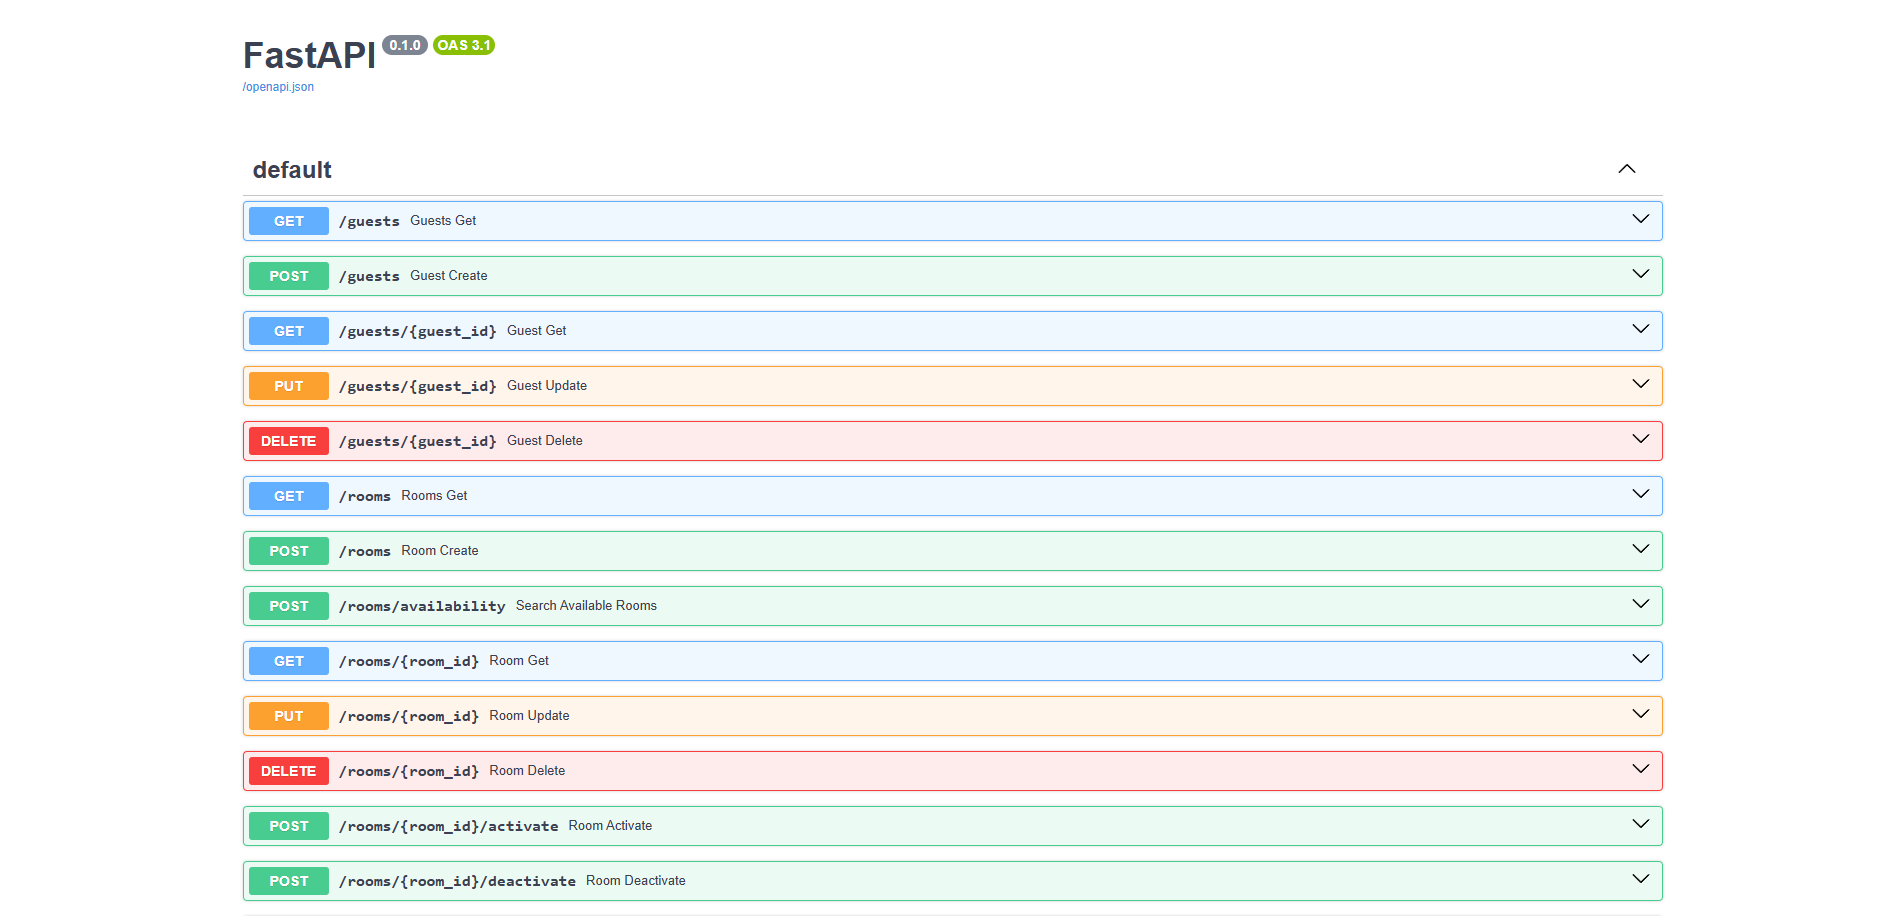
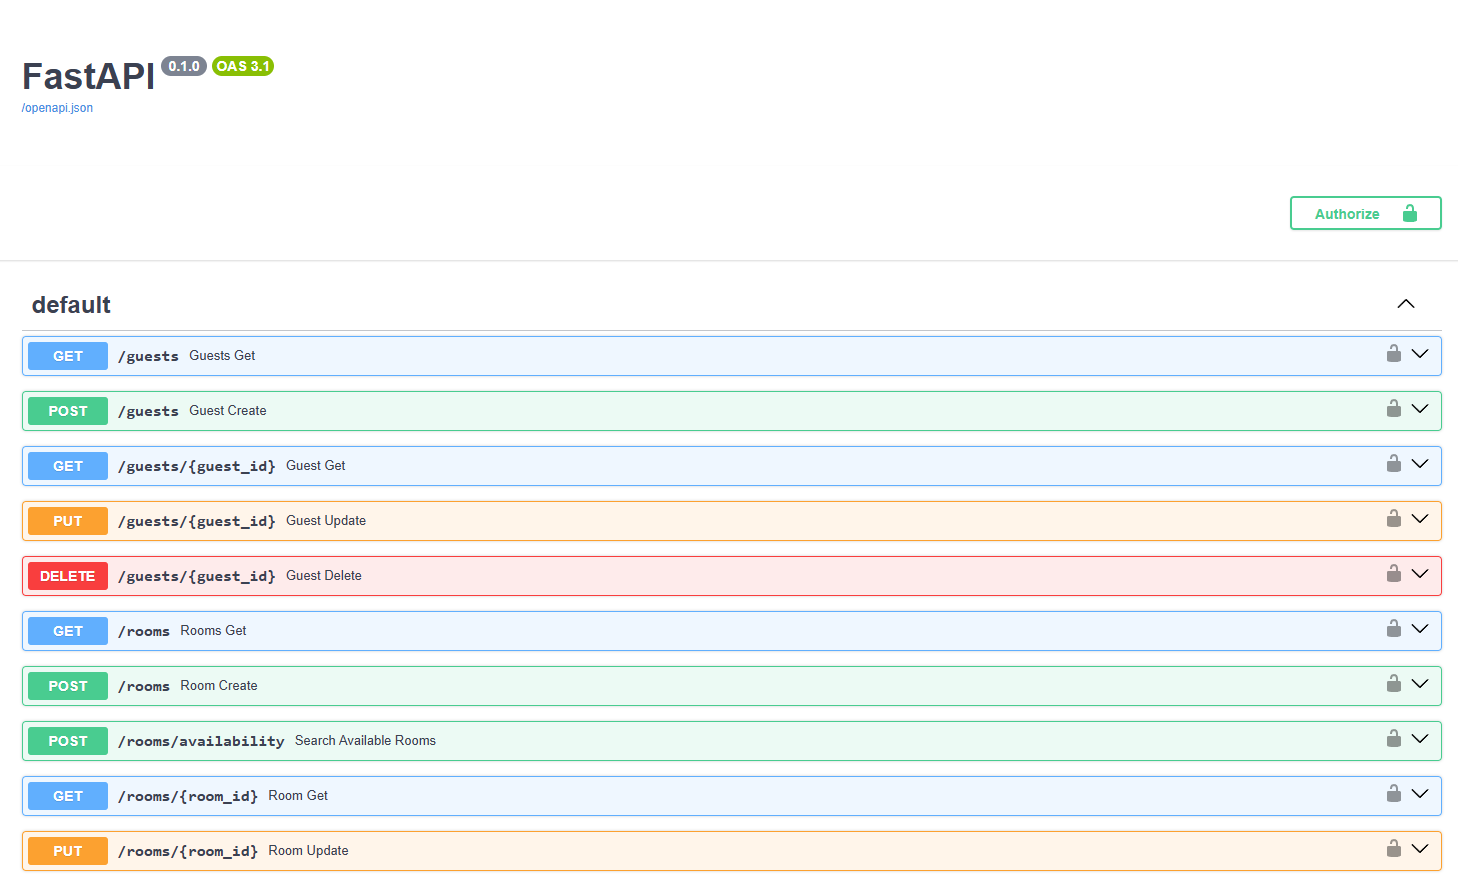
docs: update README with JWT authentication, authorization, RBAC and user management

diff --git a/README.md b/README.md
@@ -2,129 +2,172 @@
 
 A hotel reservation management API built with FastAPI, PostgreSQL, and SQLAlchemy ORM, following a layered architecture with separate API, service, and data access layers.
 
-This project started as a command-line application using SQLite and was later refactored into a REST API using FastAPI and PostgreSQL as part of my backend development learning journey.
+This project started as a command-line application using SQLite and was later refactored into a secure REST API using FastAPI, PostgreSQL, JWT authentication, and role-based access control as part of my backend development learning journey.
 
 ## Features
 
+### Authentication & Authorization
+
+* User registration
+* User login
+* JWT access token generation
+* OAuth2 password flow support
+* Protected API endpoints
+* Role-based access control (RBAC)
+* Authorization policies for Guests, Staff, and Administrators
+* Password hashing and verification
+
+### User Management
+
+* View all users (Admin)
+* Retrieve user details (Admin)
+* Update user information (Admin)
+* Delete users (Admin)
+
 ### Guest Management
 
-- Create guests
-- View all guests
-- Retrieve guest details
-- Update guest information
-- Delete guests
+* Create guests
+* View all guests
+* Retrieve guest details
+* Update guest information
+* Delete guests
 
 ### Room Management
 
-- Create rooms
-- View all rooms
-- Retrieve room details
-- Update room information
-- Delete rooms
-- Activate/deactivate rooms
-- Search room availability for a date range
+* Create rooms
+* View all rooms
+* Retrieve room details
+* Update room information
+* Delete rooms
+* Activate/deactivate rooms
+* Search room availability for a date range
 
 ### Reservation Management
 
-- Create reservations
-- View all reservations
-- Retrieve reservation details
-- Update reservations
-- Cancel reservations
-- Check guests in
-- Check guests out
-- Prevent overlapping reservations for the same room
+* Create reservations
+* View all reservations
+* Retrieve reservation details
+* Update reservations
+* Cancel reservations
+* Check guests in
+* Check guests out
+* Prevent overlapping reservations for the same room
 
 ### Reporting & Analytics
 
-- Revenue reports for custom date ranges
-- Monthly revenue reports
-- Yearly revenue reports
-- Current occupancy reports
-- Monthly occupancy reports
+* Revenue reports for custom date ranges
+* Monthly revenue reports
+* Yearly revenue reports
+* Current occupancy reports
+* Monthly occupancy reports
 
 ### Testing
 
-- Comprehensive FastAPI endpoint test suite
-- Positive and negative test cases
-- Request validation testing
-- Error handling verification
-- Isolated test database setup using pytest fixtures
+* Comprehensive FastAPI endpoint test suite
+* Positive and negative test cases
+* Request validation testing
+* Authentication and authorization testing
+* Error handling verification
+* Isolated test database setup using pytest fixtures
+
+## Role-Based Access Control
+
+The API uses three authorization levels:
+
+| Role  | Permissions                                                                                                           |
+| ----- | --------------------------------------------------------------------------------------------------------------------- |
+| Guest | Register, login, create reservations, search room availability, manage guest records                                  |
+| Staff | All Guest permissions plus view guests, rooms, reservations, occupancy reports, perform check-in/check-out operations |
+| Admin | Full system access including room management, reservation updates, revenue reports, and user management               |
 
 ## API Endpoints
 
+### Authentication
+
+| Method | Endpoint         | Description                      |
+| ------ | ---------------- | -------------------------------- |
+| POST   | `/auth/register` | Register a new user              |
+| POST   | `/auth/login`    | Login and receive JWT token      |
+| POST   | `/auth/token`    | OAuth2-compatible token endpoint |
+
+### Users (Admin Only)
+
+| Method | Endpoint           | Description      |
+| ------ | ------------------ | ---------------- |
+| GET    | `/users`           | Get all users    |
+| GET    | `/users/{user_id}` | Get user details |
+| PUT    | `/users/{user_id}` | Update user      |
+| DELETE | `/users/{user_id}` | Delete user      |
+
 ### Guests
 
-| Method | Endpoint | Description |
-|---------|----------|-------------|
-| GET | `/guests` | Get all guests |
-| POST | `/guests` | Create a guest |
-| GET | `/guests/{guest_id}` | Get a guest by ID |
-| PUT | `/guests/{guest_id}` | Update a guest |
-| DELETE | `/guests/{guest_id}` | Delete a guest |
+| Method | Endpoint             | Access             |
+| ------ | -------------------- | ------------------ |
+| POST   | `/guests`            | Authenticated User |
+| GET    | `/guests`            | Staff+             |
+| GET    | `/guests/{guest_id}` | Staff+             |
+| PUT    | `/guests/{guest_id}` | Admin              |
+| DELETE | `/guests/{guest_id}` | Admin              |
 
 ### Rooms
 
-| Method | Endpoint | Description |
-|---------|----------|-------------|
-| GET | `/rooms` | Get all rooms |
-| POST | `/rooms` | Create a room |
-| POST | `/rooms/availability` | Search available rooms |
-| GET | `/rooms/{room_id}` | Get room details |
-| PUT | `/rooms/{room_id}` | Update a room |
-| DELETE | `/rooms/{room_id}` | Delete a room |
-| POST | `/rooms/{room_id}/activate` | Activate a room |
-| POST | `/rooms/{room_id}/deactivate` | Deactivate a room |
+| Method | Endpoint                      | Access             |
+| ------ | ----------------------------- | ------------------ |
+| POST   | `/rooms`                      | Admin              |
+| GET    | `/rooms`                      | Staff+             |
+| POST   | `/rooms/availability`         | Authenticated User |
+| GET    | `/rooms/{room_id}`            | Staff+             |
+| PUT    | `/rooms/{room_id}`            | Admin              |
+| DELETE | `/rooms/{room_id}`            | Admin              |
+| POST   | `/rooms/{room_id}/activate`   | Admin              |
+| POST   | `/rooms/{room_id}/deactivate` | Admin              |
 
 ### Reservations
 
-| Method | Endpoint | Description |
-|---------|----------|-------------|
-| GET | `/reservations` | Get all reservations |
-| POST | `/reservations` | Create a reservation |
-| GET | `/reservations/{reservation_id}` | Get reservation details |
-| PUT | `/reservations/{reservation_id}` | Update a reservation |
-| POST | `/reservations/{reservation_id}/cancel` | Cancel a reservation |
-| POST | `/reservations/{reservation_id}/check-in` | Check in a guest |
-| POST | `/reservations/{reservation_id}/check-out` | Check out a guest |
+| Method | Endpoint                                   | Access             |
+| ------ | ------------------------------------------ | ------------------ |
+| POST   | `/reservations`                            | Authenticated User |
+| GET    | `/reservations`                            | Staff+             |
+| GET    | `/reservations/{reservation_id}`           | Staff+             |
+| PUT    | `/reservations/{reservation_id}`           | Admin              |
+| POST   | `/reservations/{reservation_id}/cancel`    | Staff+             |
+| POST   | `/reservations/{reservation_id}/check-in`  | Staff+             |
+| POST   | `/reservations/{reservation_id}/check-out` | Staff+             |
 
 ### Reports
 
-| Method | Endpoint | Description |
-|---------|----------|-------------|
-| POST | `/reports/revenue` | Revenue report for a date range |
-| GET | `/reports/revenue/monthly` | Monthly revenue report |
-| GET | `/reports/revenue/yearly` | Yearly revenue report |
-| GET | `/reports/occupancy/today` | Current occupancy report |
-| POST | `/reports/occupancy/monthly` | Monthly occupancy report |
+| Method | Endpoint                     | Access |
+| ------ | ---------------------------- | ------ |
+| POST   | `/reports/revenue`           | Admin  |
+| GET    | `/reports/revenue/monthly`   | Admin  |
+| GET    | `/reports/revenue/yearly`    | Admin  |
+| GET    | `/reports/occupancy/today`   | Staff+ |
+| POST   | `/reports/occupancy/monthly` | Staff+ |
 
-## Testing
+## Security
 
-The project includes a comprehensive automated test suite built with Pytest and FastAPI's TestClient.
+The API is secured using JWT bearer tokens.
 
-### Coverage Includes
+### Authentication Flow
 
-- All guest endpoints
-- All room endpoints
-- All reservation endpoints
-- All reporting endpoints
-- Request validation
-- Invalid input handling
-- Business rule enforcement
-- Error responses
-- Reservation conflict detection
-- Check-in/check-out workflows
+1. Register a user via `/auth/register`
+2. Login via `/auth/login` or `/auth/token`
+3. Receive a JWT access token
+4. Include the token in requests:
 
-### Test Structure
-
-```text
-tests/
-├── conftest.py
-├── test_guest.py
-├── test_room.py
-├── test_reservation.py
-└── test_reports.py
+```http
+Authorization: Bearer <access_token>
 ```
+
+### Authorization
+
+Protected endpoints enforce role-based access control using FastAPI dependency injection.
+
+Examples:
+
+* Authenticated users can create reservations and search availability.
+* Staff members can manage operational hotel activities.
+* Administrators have full system access.
 
 ## Tech Stack
 
@@ -134,6 +177,9 @@ tests/
 * SQLAlchemy ORM
 * Alembic
 * Pydantic
+* JWT Authentication
+* OAuth2 Password Flow
+* Password Hashing
 * Pytest
 
 ## Project Evolution
@@ -148,23 +194,10 @@ This project went through several iterations:
 6. Introduced SQLAlchemy ORM for database modeling and data access.
 7. Added Alembic database migrations for schema versioning.
 8. Implemented reporting and analytics endpoints.
-9. Added comprehensive automated API testing with Pytest.
-
-## API Documentation
-
-FastAPI automatically generates interactive OpenAPI documentation for all endpoints, request schemas, and response models.
-
-### Swagger UI
-
-![Swagger UI - Part 1](images/fastapi-docs-1.png)
-
-![Swagger UI - Part 2](images/fastapi-docs-2.png)
-
-Once the application is running, the interactive API documentation is available at:
-
-```text
-http://127.0.0.1:8000/docs
-```
+9. Added JWT authentication and authorization.
+10. Implemented role-based access control (Guest, Staff, Admin).
+11. Added user management functionality.
+12. Added comprehensive automated API testing with Pytest.
 
 ## Architecture
 
@@ -172,37 +205,45 @@ The application is organized into separate layers to improve maintainability and
 
 ### API Layer
 
-* `api.py` defines the FastAPI routes and handles HTTP requests and responses.
+* Defines FastAPI routes and handles HTTP requests and responses.
 
 ### Service Layer
 
-* `services/` contains the business logic for guest, room, and reservation operations.
-* Business rules such as room availability checks and reservation validation are handled here.
+* Contains business logic for authentication, users, guests, rooms, reservations, and reporting.
+* Enforces business rules and authorization requirements.
 
 ### Data Access Layer
 
-* `repository.py` is responsible for database operations and acts as the interface between the application and the database.
+* Handles database operations through repository abstractions.
 
 ### Database Layer
 
-* `database.py` manages database connections and SQLAlchemy session configuration.
-* `models.py` defines the SQLAlchemy ORM models that map Python classes to PostgreSQL tables.
+* SQLAlchemy ORM models.
+* PostgreSQL database integration.
+* Alembic migration support.
 
 ### Validation Layer
 
-* `schemas.py` contains Pydantic models used for request validation and API response serialization.
+* Pydantic schemas for request validation and response serialization.
+
+### Security Layer
+
+* JWT token creation and validation.
+* Password hashing and verification.
+* OAuth2 integration.
+* Role-based authorization dependencies.
 
 ### Error Handling
 
-* `exceptions.py` defines custom application exceptions.
-* `exception_handlers.py` converts application exceptions into appropriate HTTP responses.
+* Custom application exceptions.
+* Centralized exception handlers for consistent API responses.
 
 ## Installation
 
 Clone the repository:
 
 ```bash
-git clone https://github.com/your-username/hotel-reservation-system.git
+git clone https://github.com/lesnikblaz-coder/hotel-reservation-system.git
 cd hotel-reservation-system
 ```
 
@@ -280,20 +321,24 @@ python -m pytest -v
 
 ## Key Learning Outcomes
 
-- REST API design with FastAPI
-- Database schema design
-- SQLAlchemy ORM relationships and querying
-- Business rule enforcement (preventing overlapping reservations)
-- Layered application architecture
-- Input validation with Pydantic
-- Automated testing with Pytest
+* REST API design with FastAPI
+* JWT authentication and authorization
+* Role-based access control (RBAC)
+* OAuth2 password flow
+* Password hashing and security best practices
+* SQLAlchemy ORM relationships and querying
+* Database schema design
+* Layered application architecture
+* Input validation with Pydantic
+* Automated testing with Pytest
 
 ## Future Improvements
 
-- JWT Authentication
-- Authorization
-- Role-based access control
-- Docker + Docker Compose
-- GitHub Actions (CI)
-- Deploy to Render
-- API rate limiting
+* Refresh tokens
+* Password reset flow
+* Docker + Docker Compose
+* GitHub Actions (CI/CD)
+* Deploy to Render
+* API rate limiting
+* Audit logging
+* Caching with Redis
